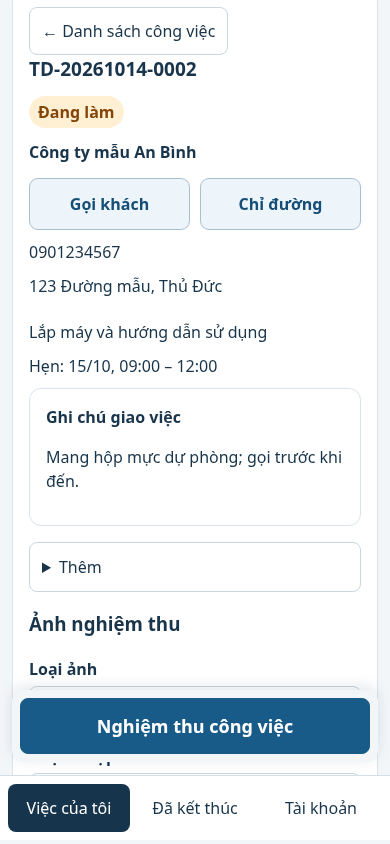
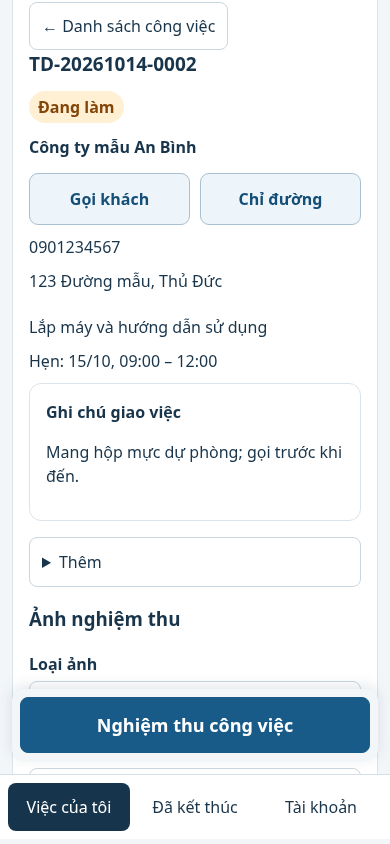
Enforce readable auxiliary text and finalize mobile UI screenshots

diff --git a/service-dispatch/STATUS.md b/service-dispatch/STATUS.md
@@ -124,3 +124,5 @@ Chỉ sửa ui.html/ui.js, kiểm thử trình duyệt và ảnh tài liệu; do
 Kiểm chứng: 43/43 Node, 48 kịch bản HTTP browser và 9 kịch bản gói GAS/document.write/CSP đạt, không page error. Luồng chính chạy ở 390px; kiểm tab cố định/active, nút liên hệ/CTA lớn, Thêm và lịch sử thu gọn, font/kích thước, không tràn ngang, bảng desktop, thẻ chọn thợ, thao tác từ thẻ đúng đơn, toast tự tắt và lỗi còn sau 3 giây. Giữ kiểm tra kho, ảnh, chuyển thợ, quyền/replay và ngày hẹn.
 
 Ảnh trước/sau tại docs/ui-review-20261014/README.md: danh sách và chi tiết 390×844, bảng điều phối 1440×1000, dùng fixture riêng. Đã nhìn kiểm tra ảnh sau; ảnh trước lấy từ a4b9e8f. Không dùng dữ liệu khách thật. Script ui-screenshots.cjs chụp lại bản hiện tại. Cần UAT trên điện thoại/GAS thực tế; không chạy setup, không đổi tài khoản hay dữ liệu.
+
+Rà soát cuối: small/order code và chữ phụ cũng tối thiểu 16px, bổ sung kiểm tra computed font của nội dung/nút/nhãn/summary; 48 kịch bản vẫn đạt. Cập nhật lại ảnh sau với cỡ chữ cuối cùng.
